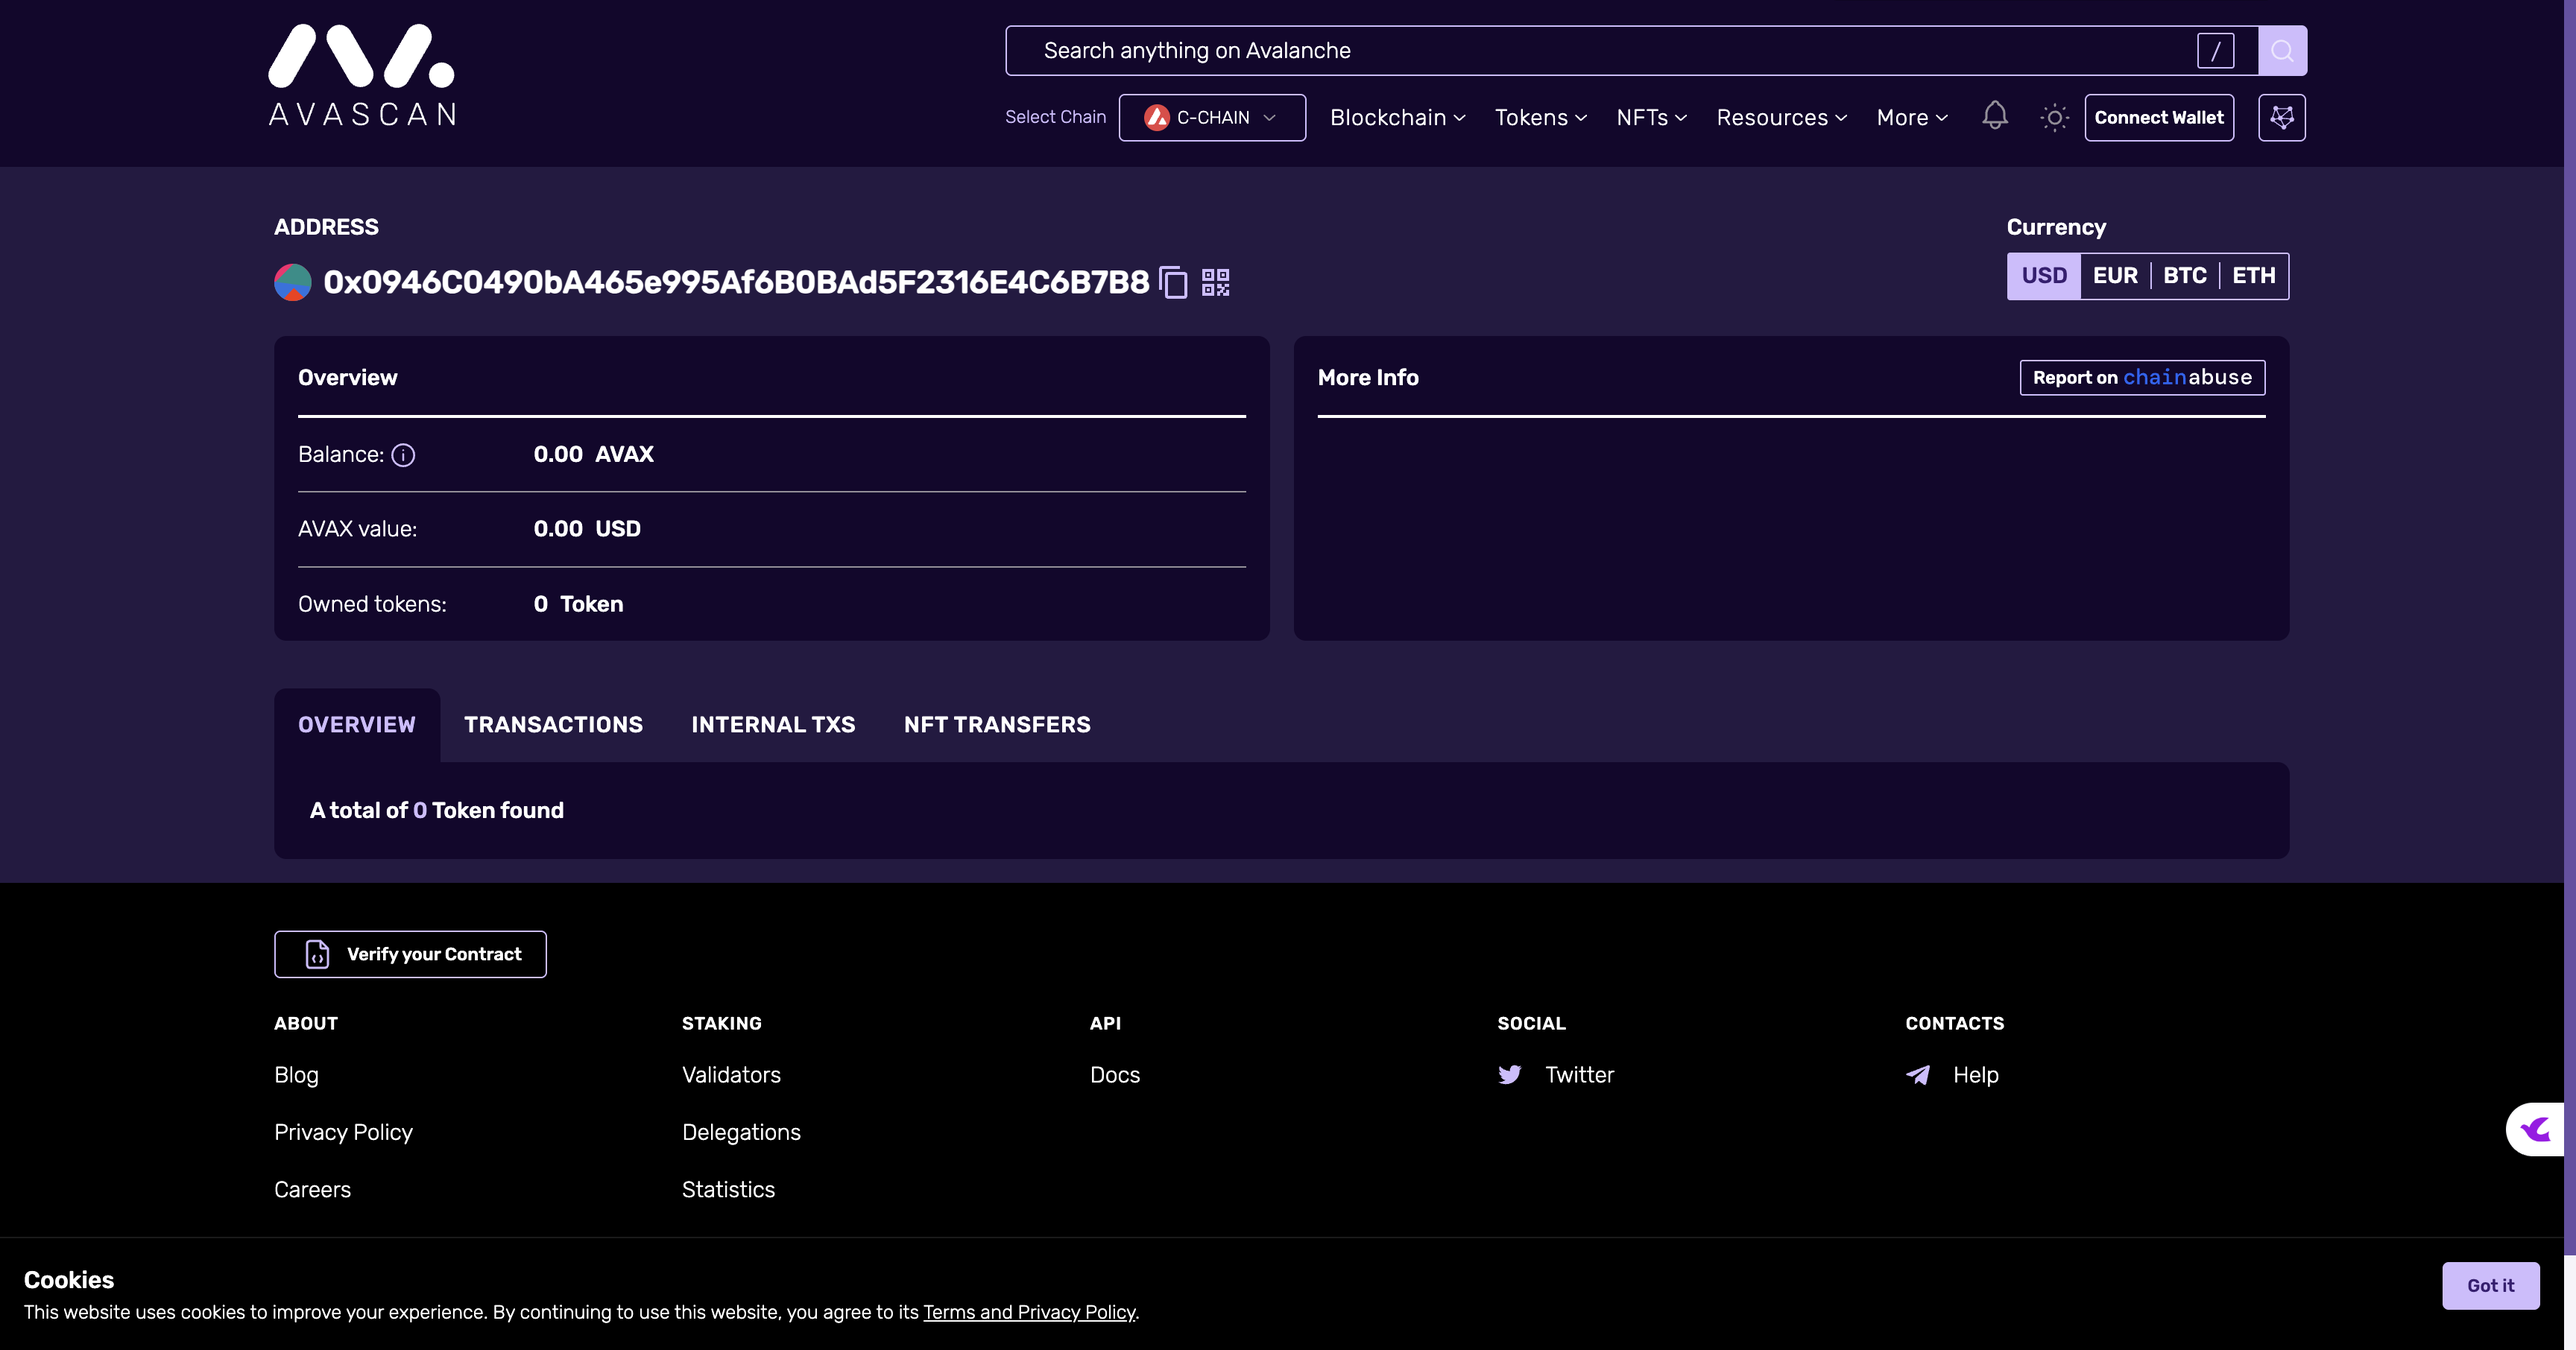
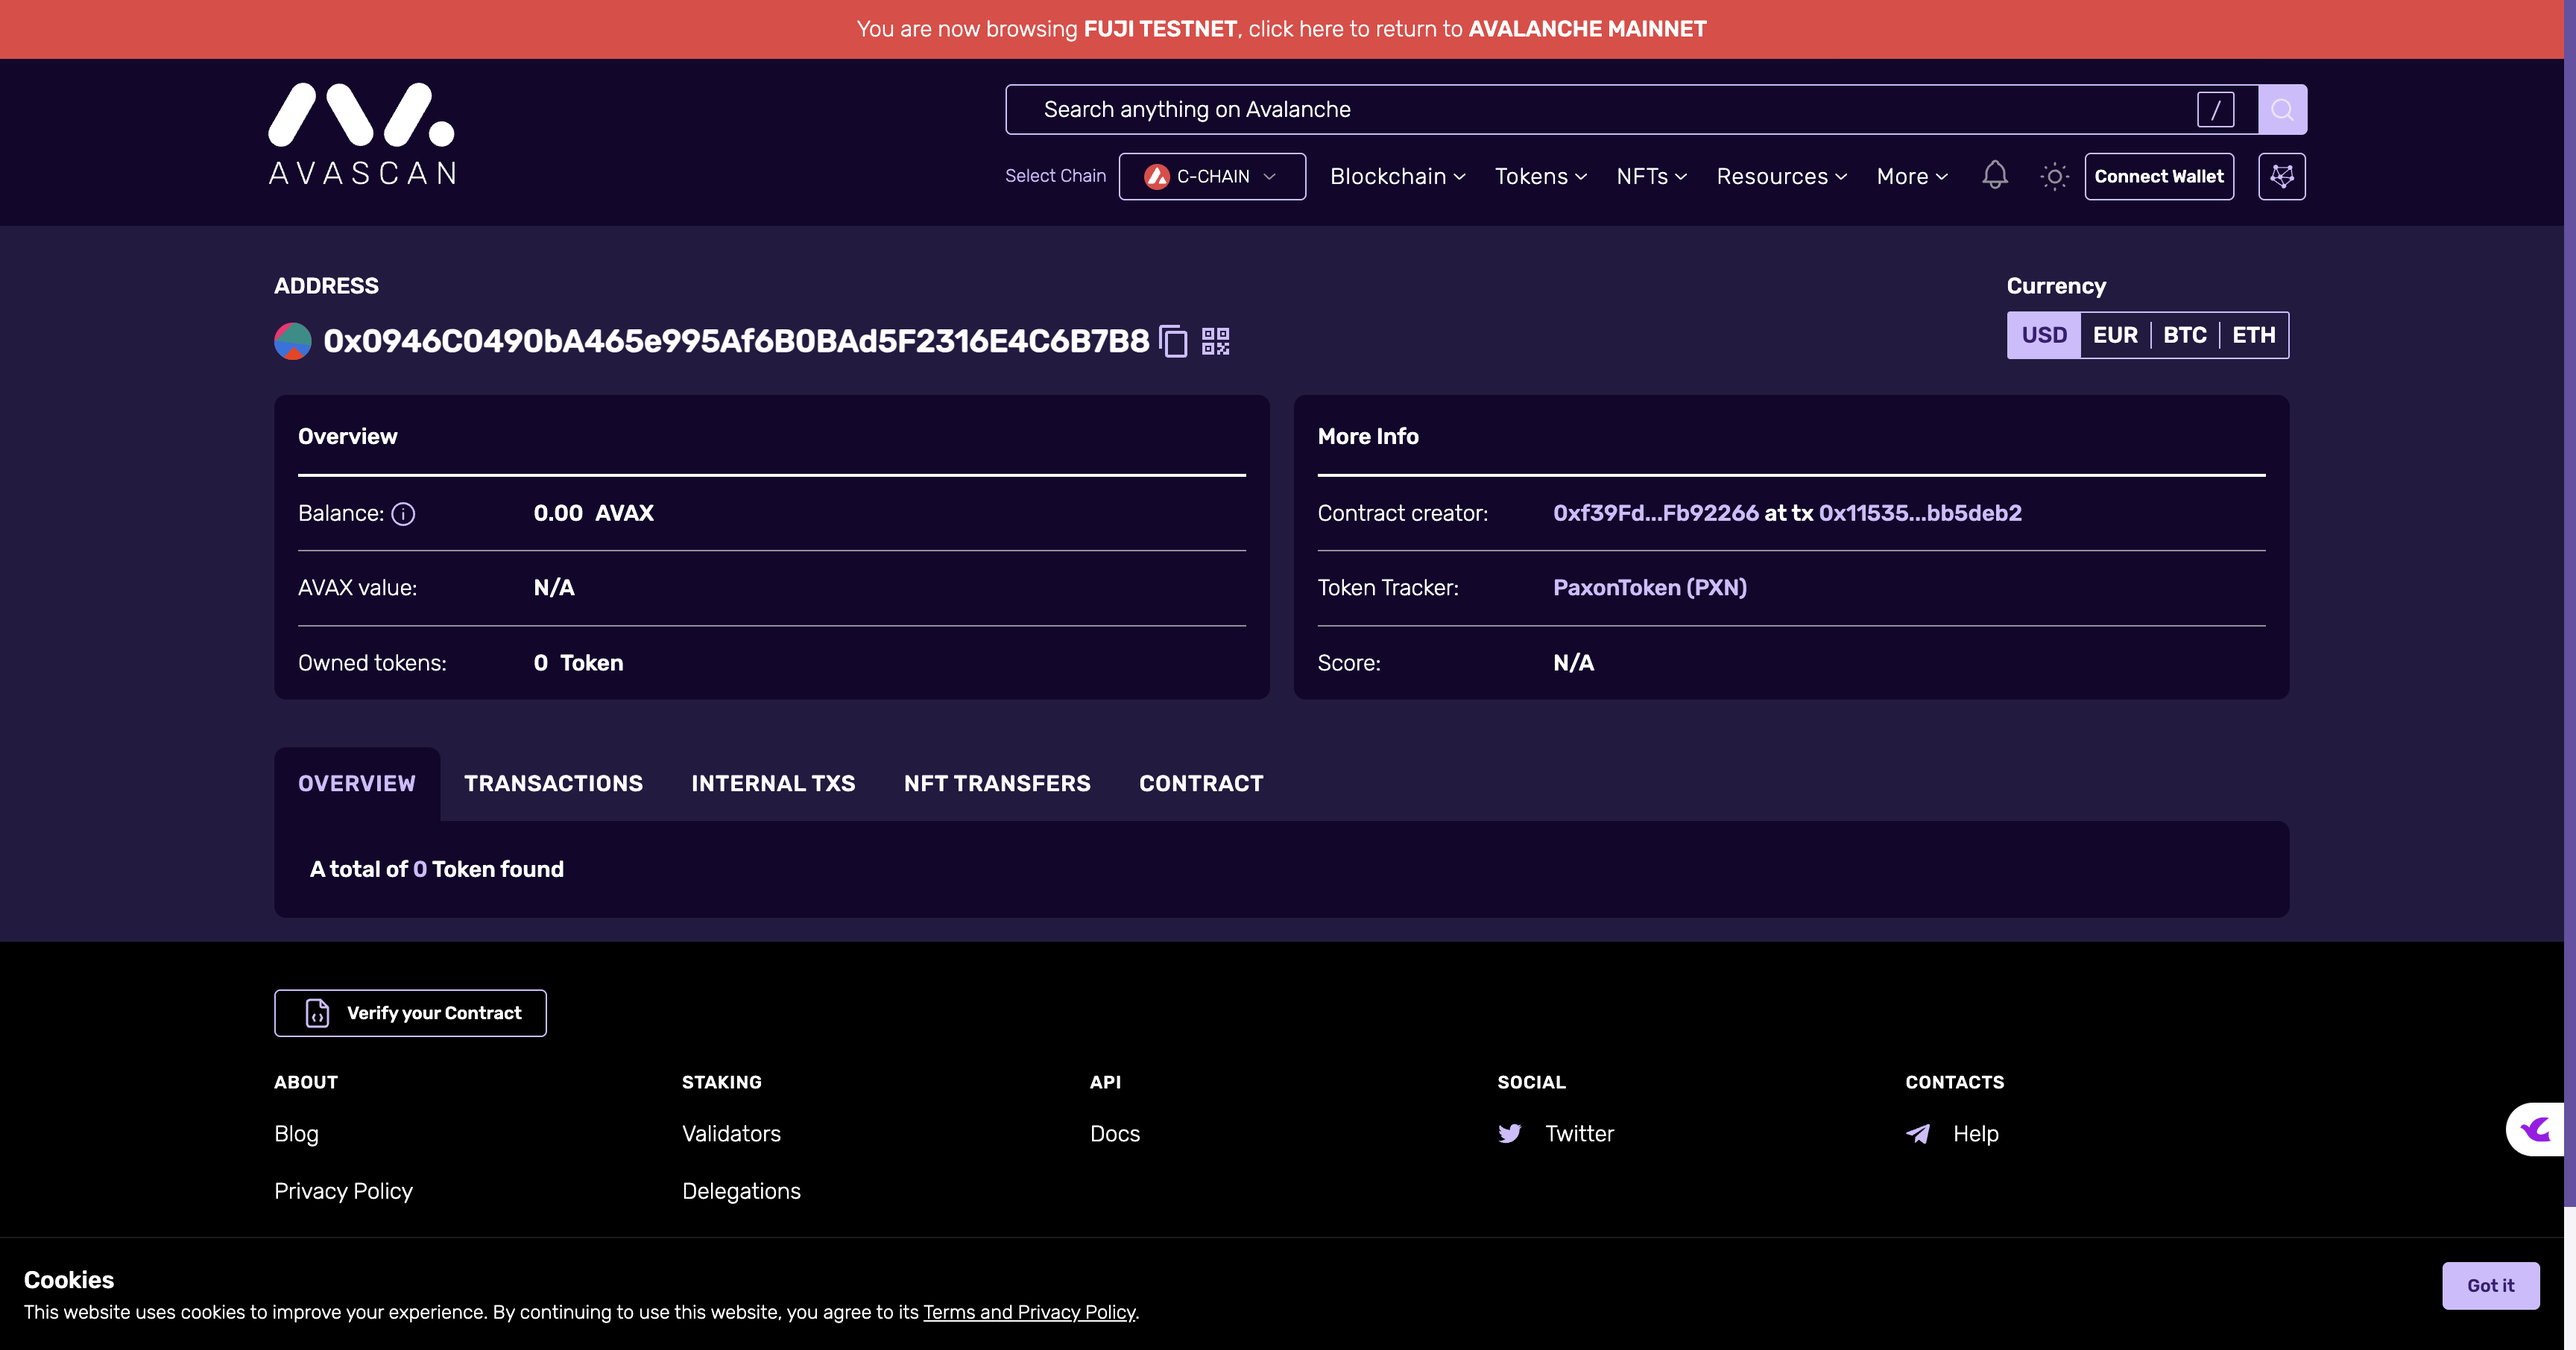
[Task2] fix: correct avascan link to FUJI testnet + updated screenshot

diff --git a/learn/qiaopengjun5162/task2.md b/learn/qiaopengjun5162/task2.md
@@ -28,7 +28,7 @@ https://build.avax.network/console/primary-network/faucet
 - **合约名**：PaxonToken (PXN)
[1 lines of base64/hex data omitted]
 - **链上验证**：name=PaxonToken / symbol=PXN / totalSupply=10,000,000 / 部署者余额 10M PXN
-- **浏览器查看**：https://avascan.info/blockchain/c/address/0x0946C0490bA465e995Af6B0BAd5F2316E4C6B7B8
+- **浏览器查看（Fuji 测试网）**：https://testnet.avascan.info/blockchain/c/address/0x0946C0490bA465e995Af6B0BAd5F2316E4C6B7B8
 
 ![task2](/learn/qiaopengjun5162/task2qiaopengjun5162.png)
 
